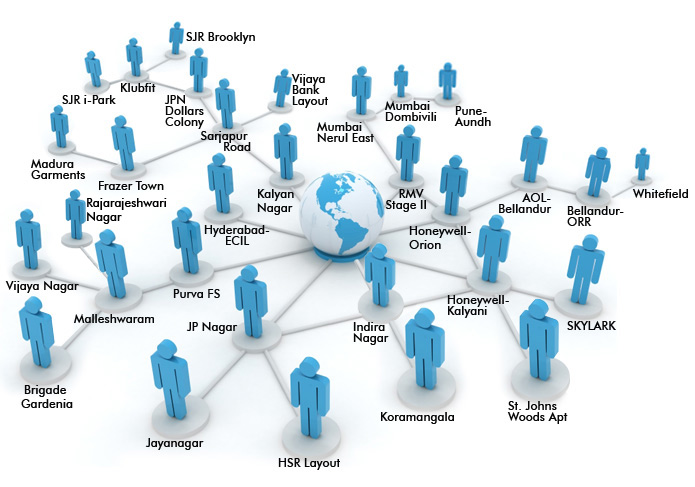
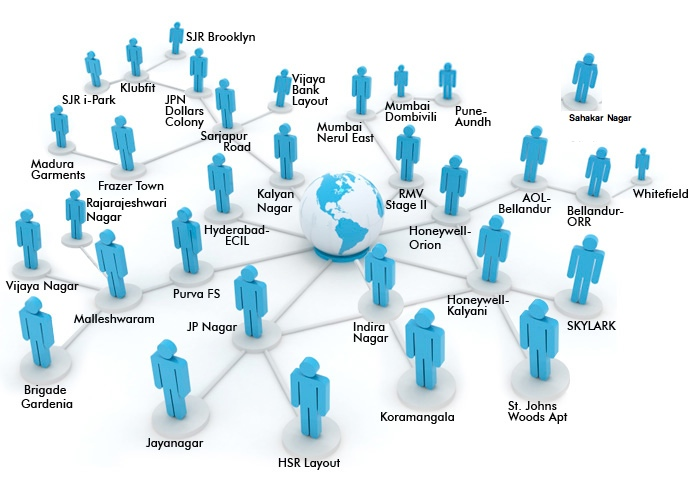
added support for skn

diff --git a/config/initializers/omniauth.rb b/config/initializers/omniauth.rb
@@ -20,6 +20,8 @@ Rails.application.config.middleware.use OmniAuth::Builder do
   provider :google_apps, OpenID::Store::Filesystem.new('/tmp'), :name => 'vij', :domain => 'vij.justbooksclc.com'
   provider :google_apps, OpenID::Store::Filesystem.new('/tmp'), :name => 'vjn', :domain => 'vjn.justbooksclc.com'
   provider :google_apps, OpenID::Store::Filesystem.new('/tmp'), :name => 'rrn', :domain => 'rrn.justbooksclc.com'
+
+  provider :google_apps, OpenID::Store::Filesystem.new('/tmp'), :name => 'skn', :domain => 'skn.justbooksclc.com'
   
   provider :google_apps, OpenID::Store::Filesystem.new('/tmp'), :name => 'strata', :domain => 'strata.co.in'
   

diff --git a/app/models/branch.rb b/app/models/branch.rb
@@ -21,6 +21,7 @@ class Branch < ActiveRecord::Base
           when 'vij'  then 26
           when 'vjn'  then 31
           when 'rrn'  then 33
+          when 'skn'  then 35
           else 801
           end
     id
